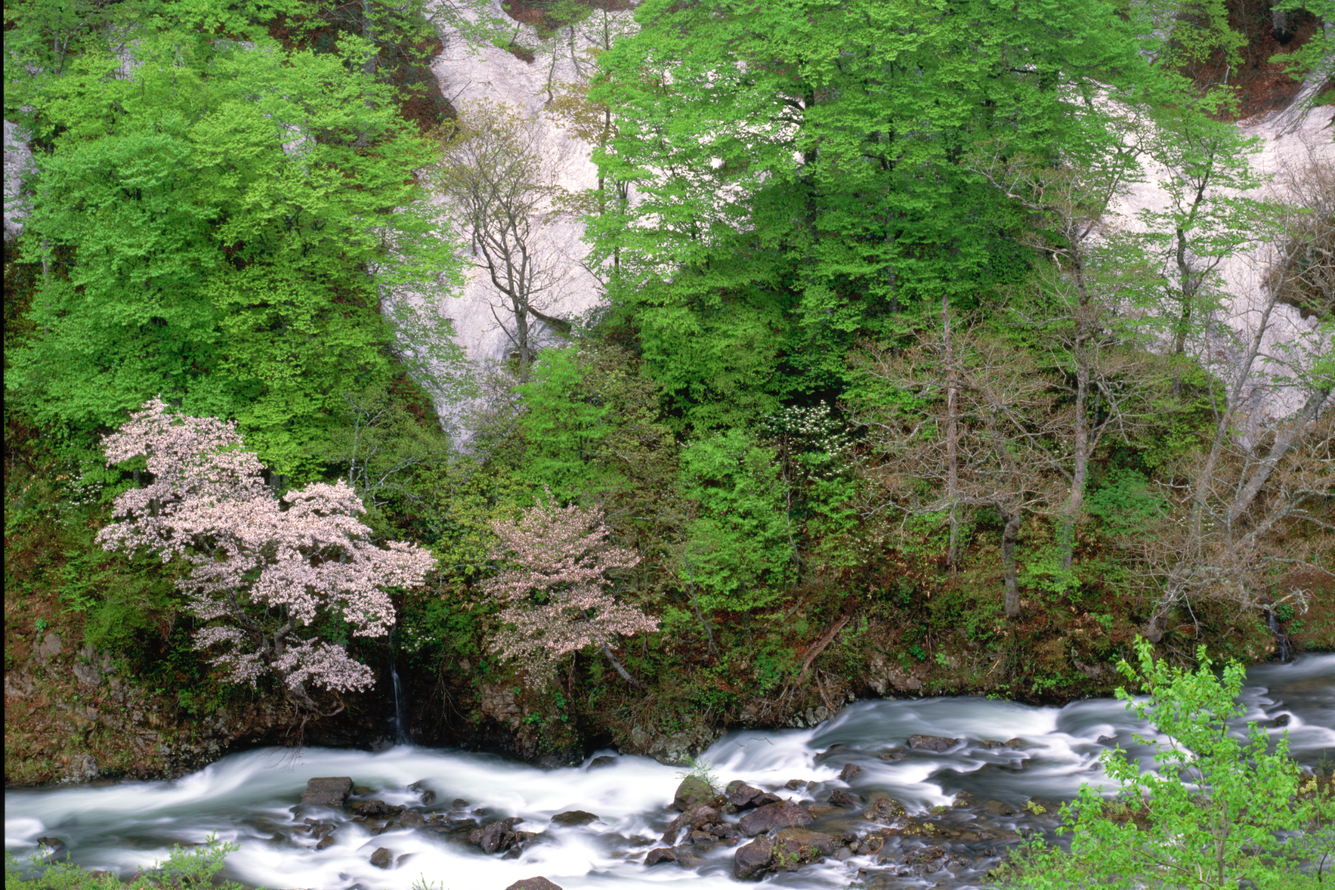
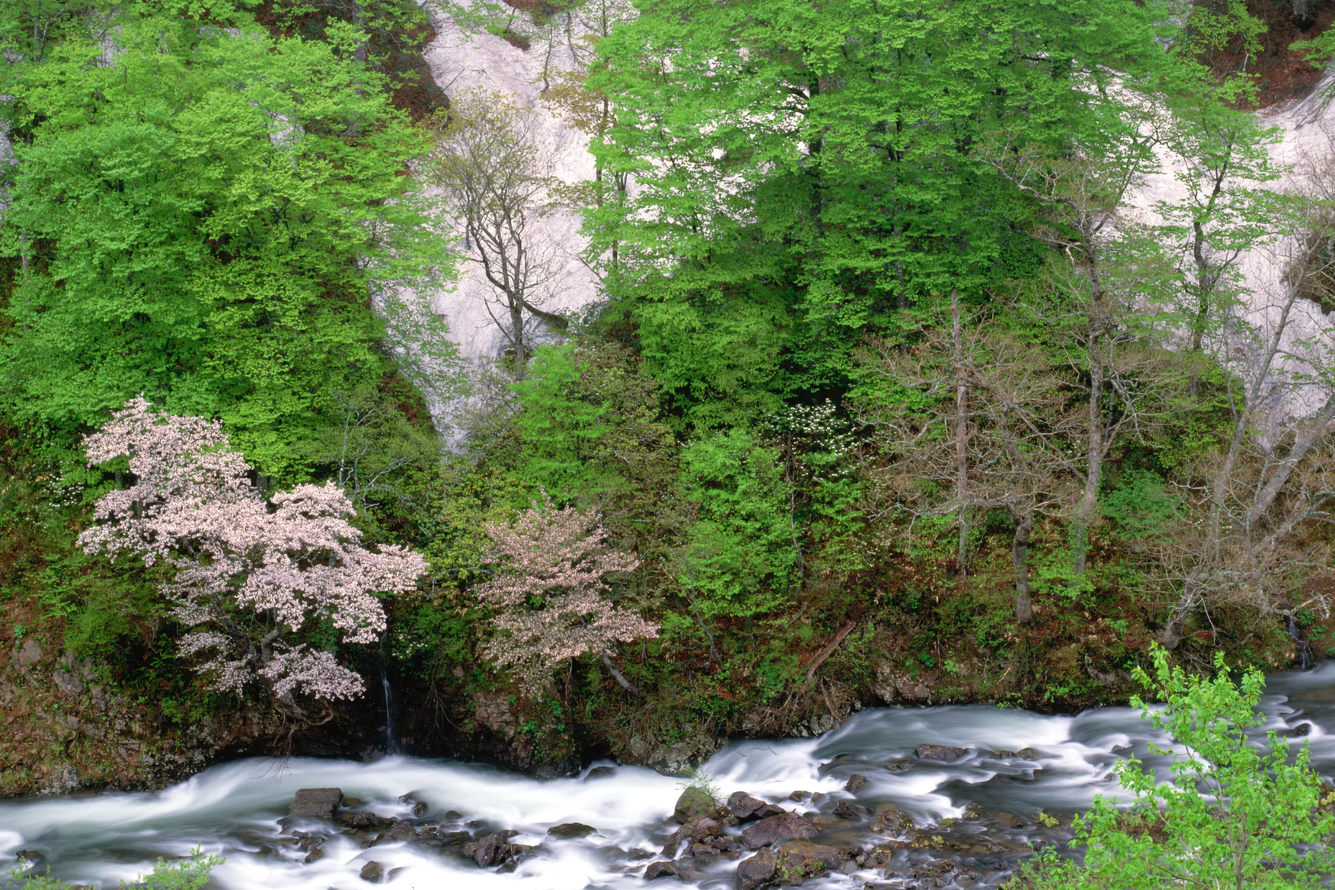
Change rayout of prints page

diff --git a/app/prints/page.tsx b/app/prints/page.tsx
@@ -39,7 +39,7 @@ export default function PrintsPage() {
 					key={work.id}
 					className="bg-white shadow-sm rounded-lg overflow-hidden flex flex-col max-w-xs mx-auto"
 					>
-					<div className="relative mt-2 aspect-[3/2]">
+					<div className="relative mt-3 aspect-[3/2]">
 					<Image
 					src={work.imageSrc}
 					alt={`${work.titleEn} / ${work.titleJa}`}
